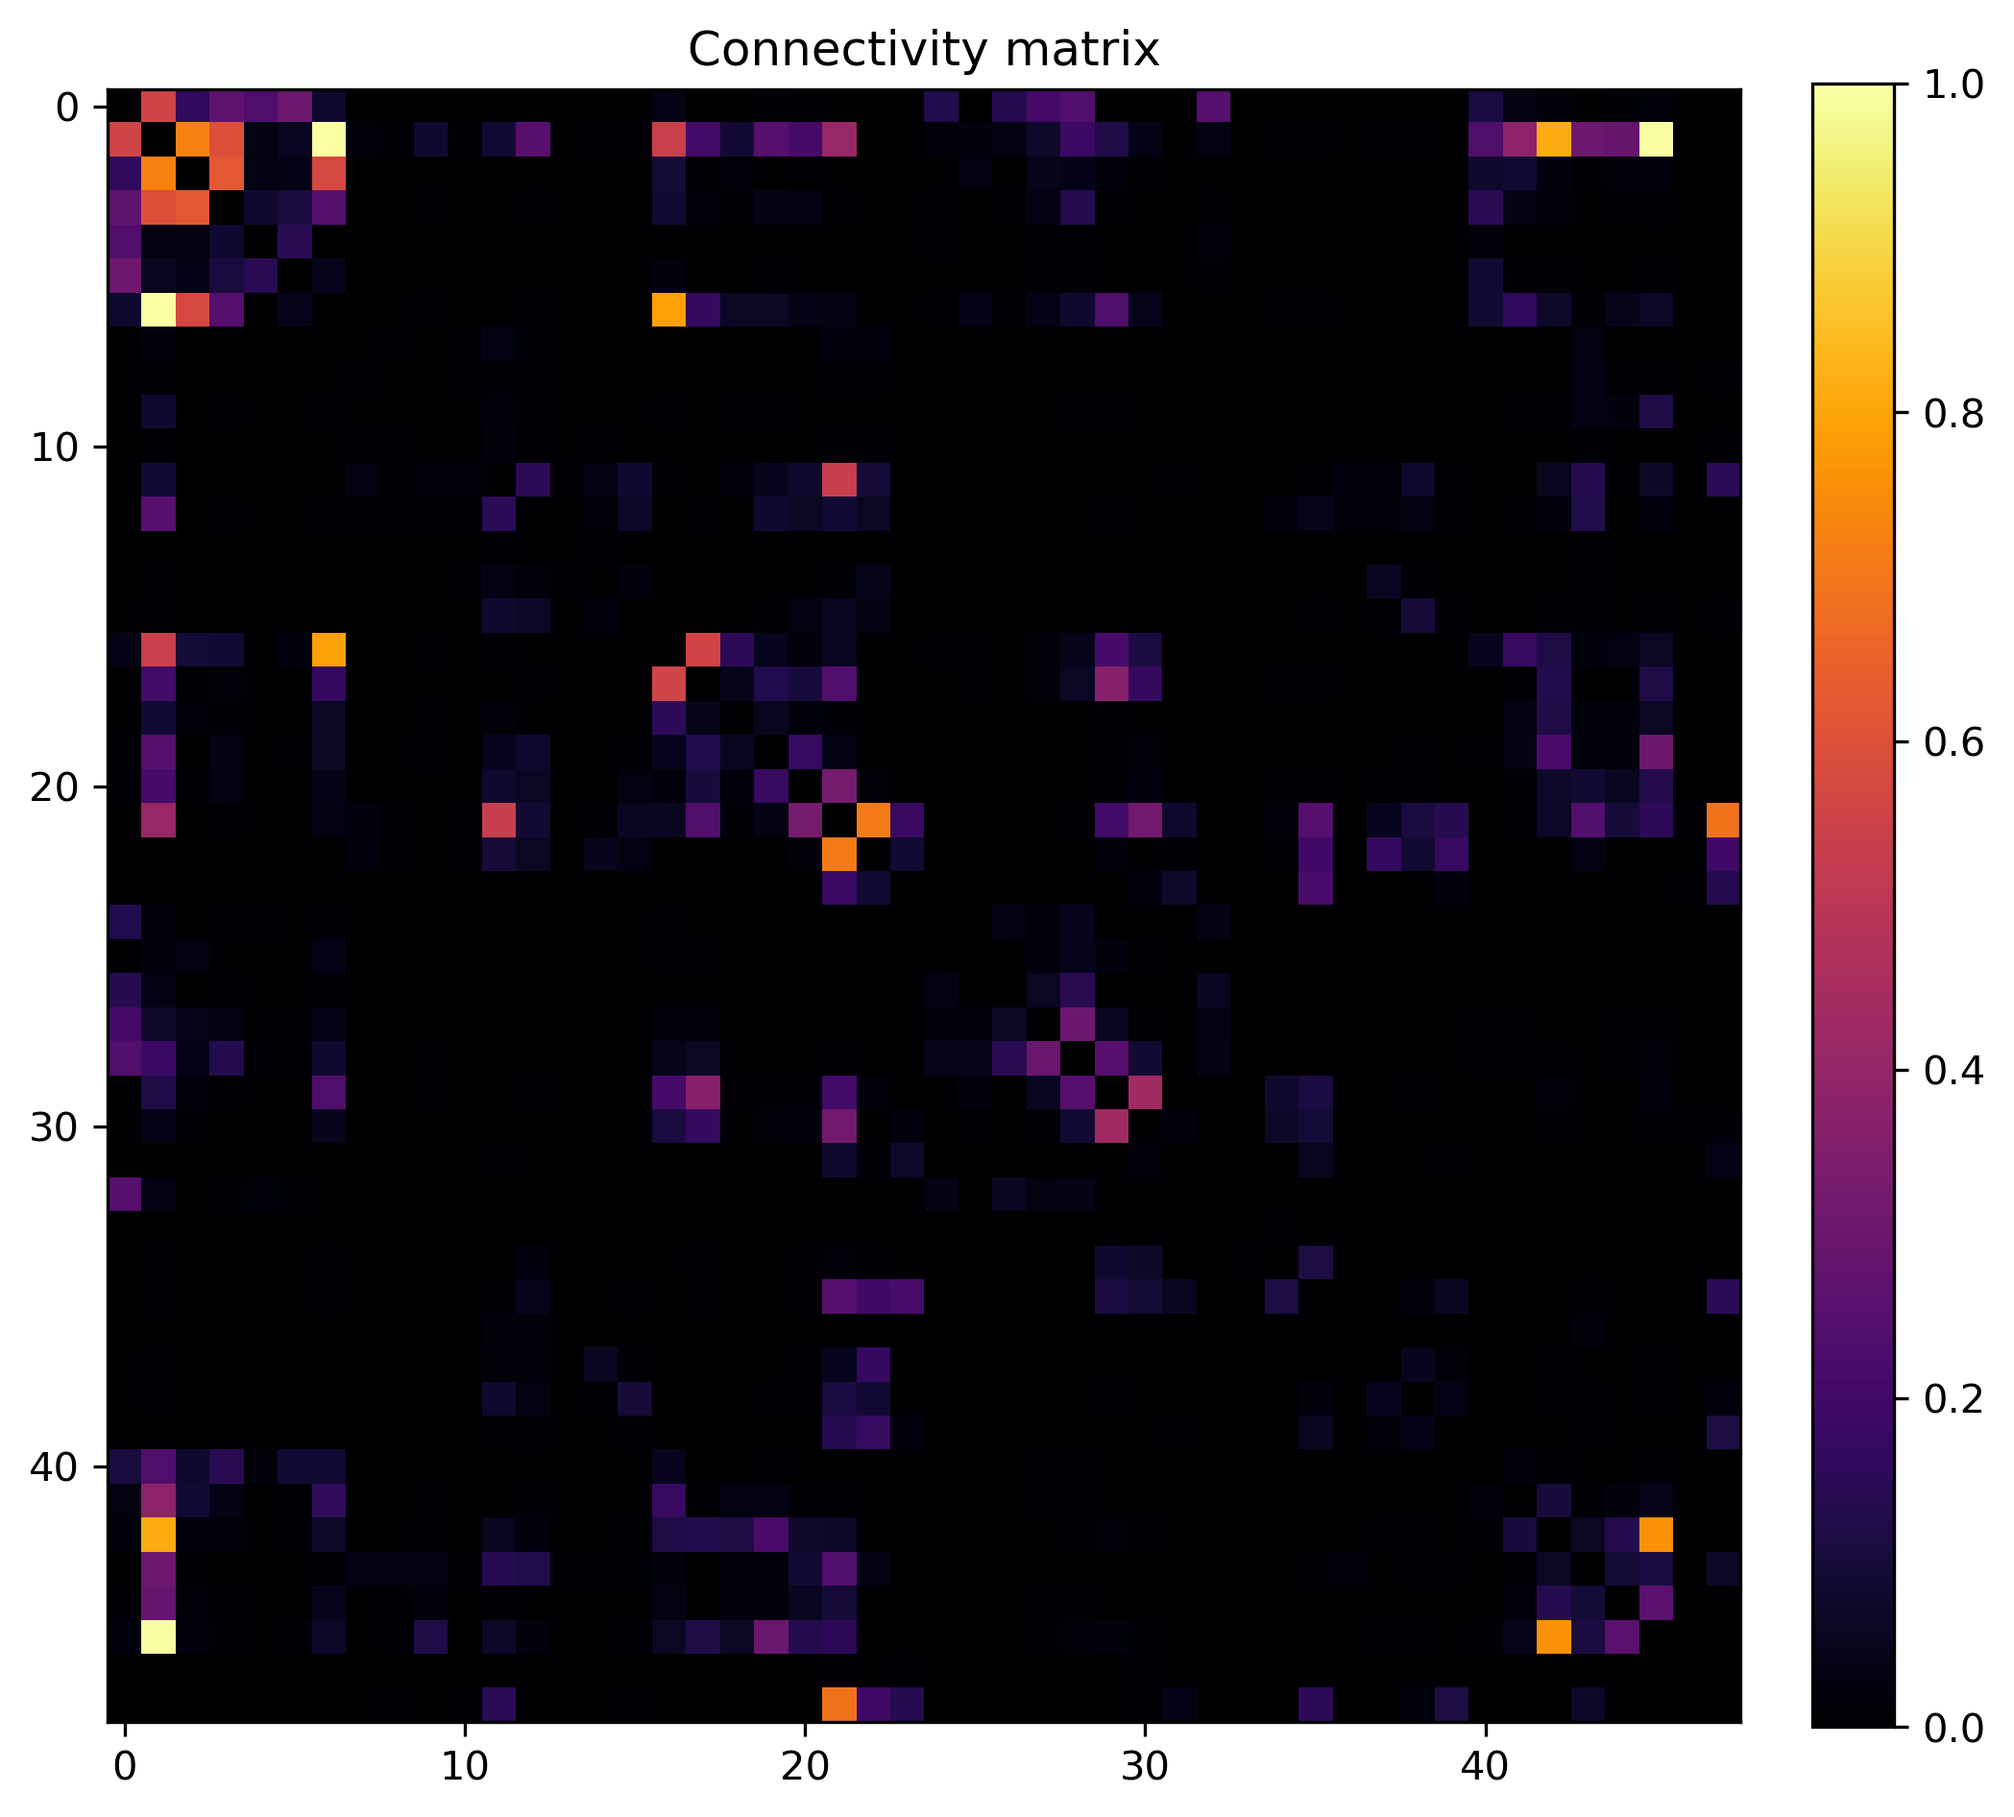
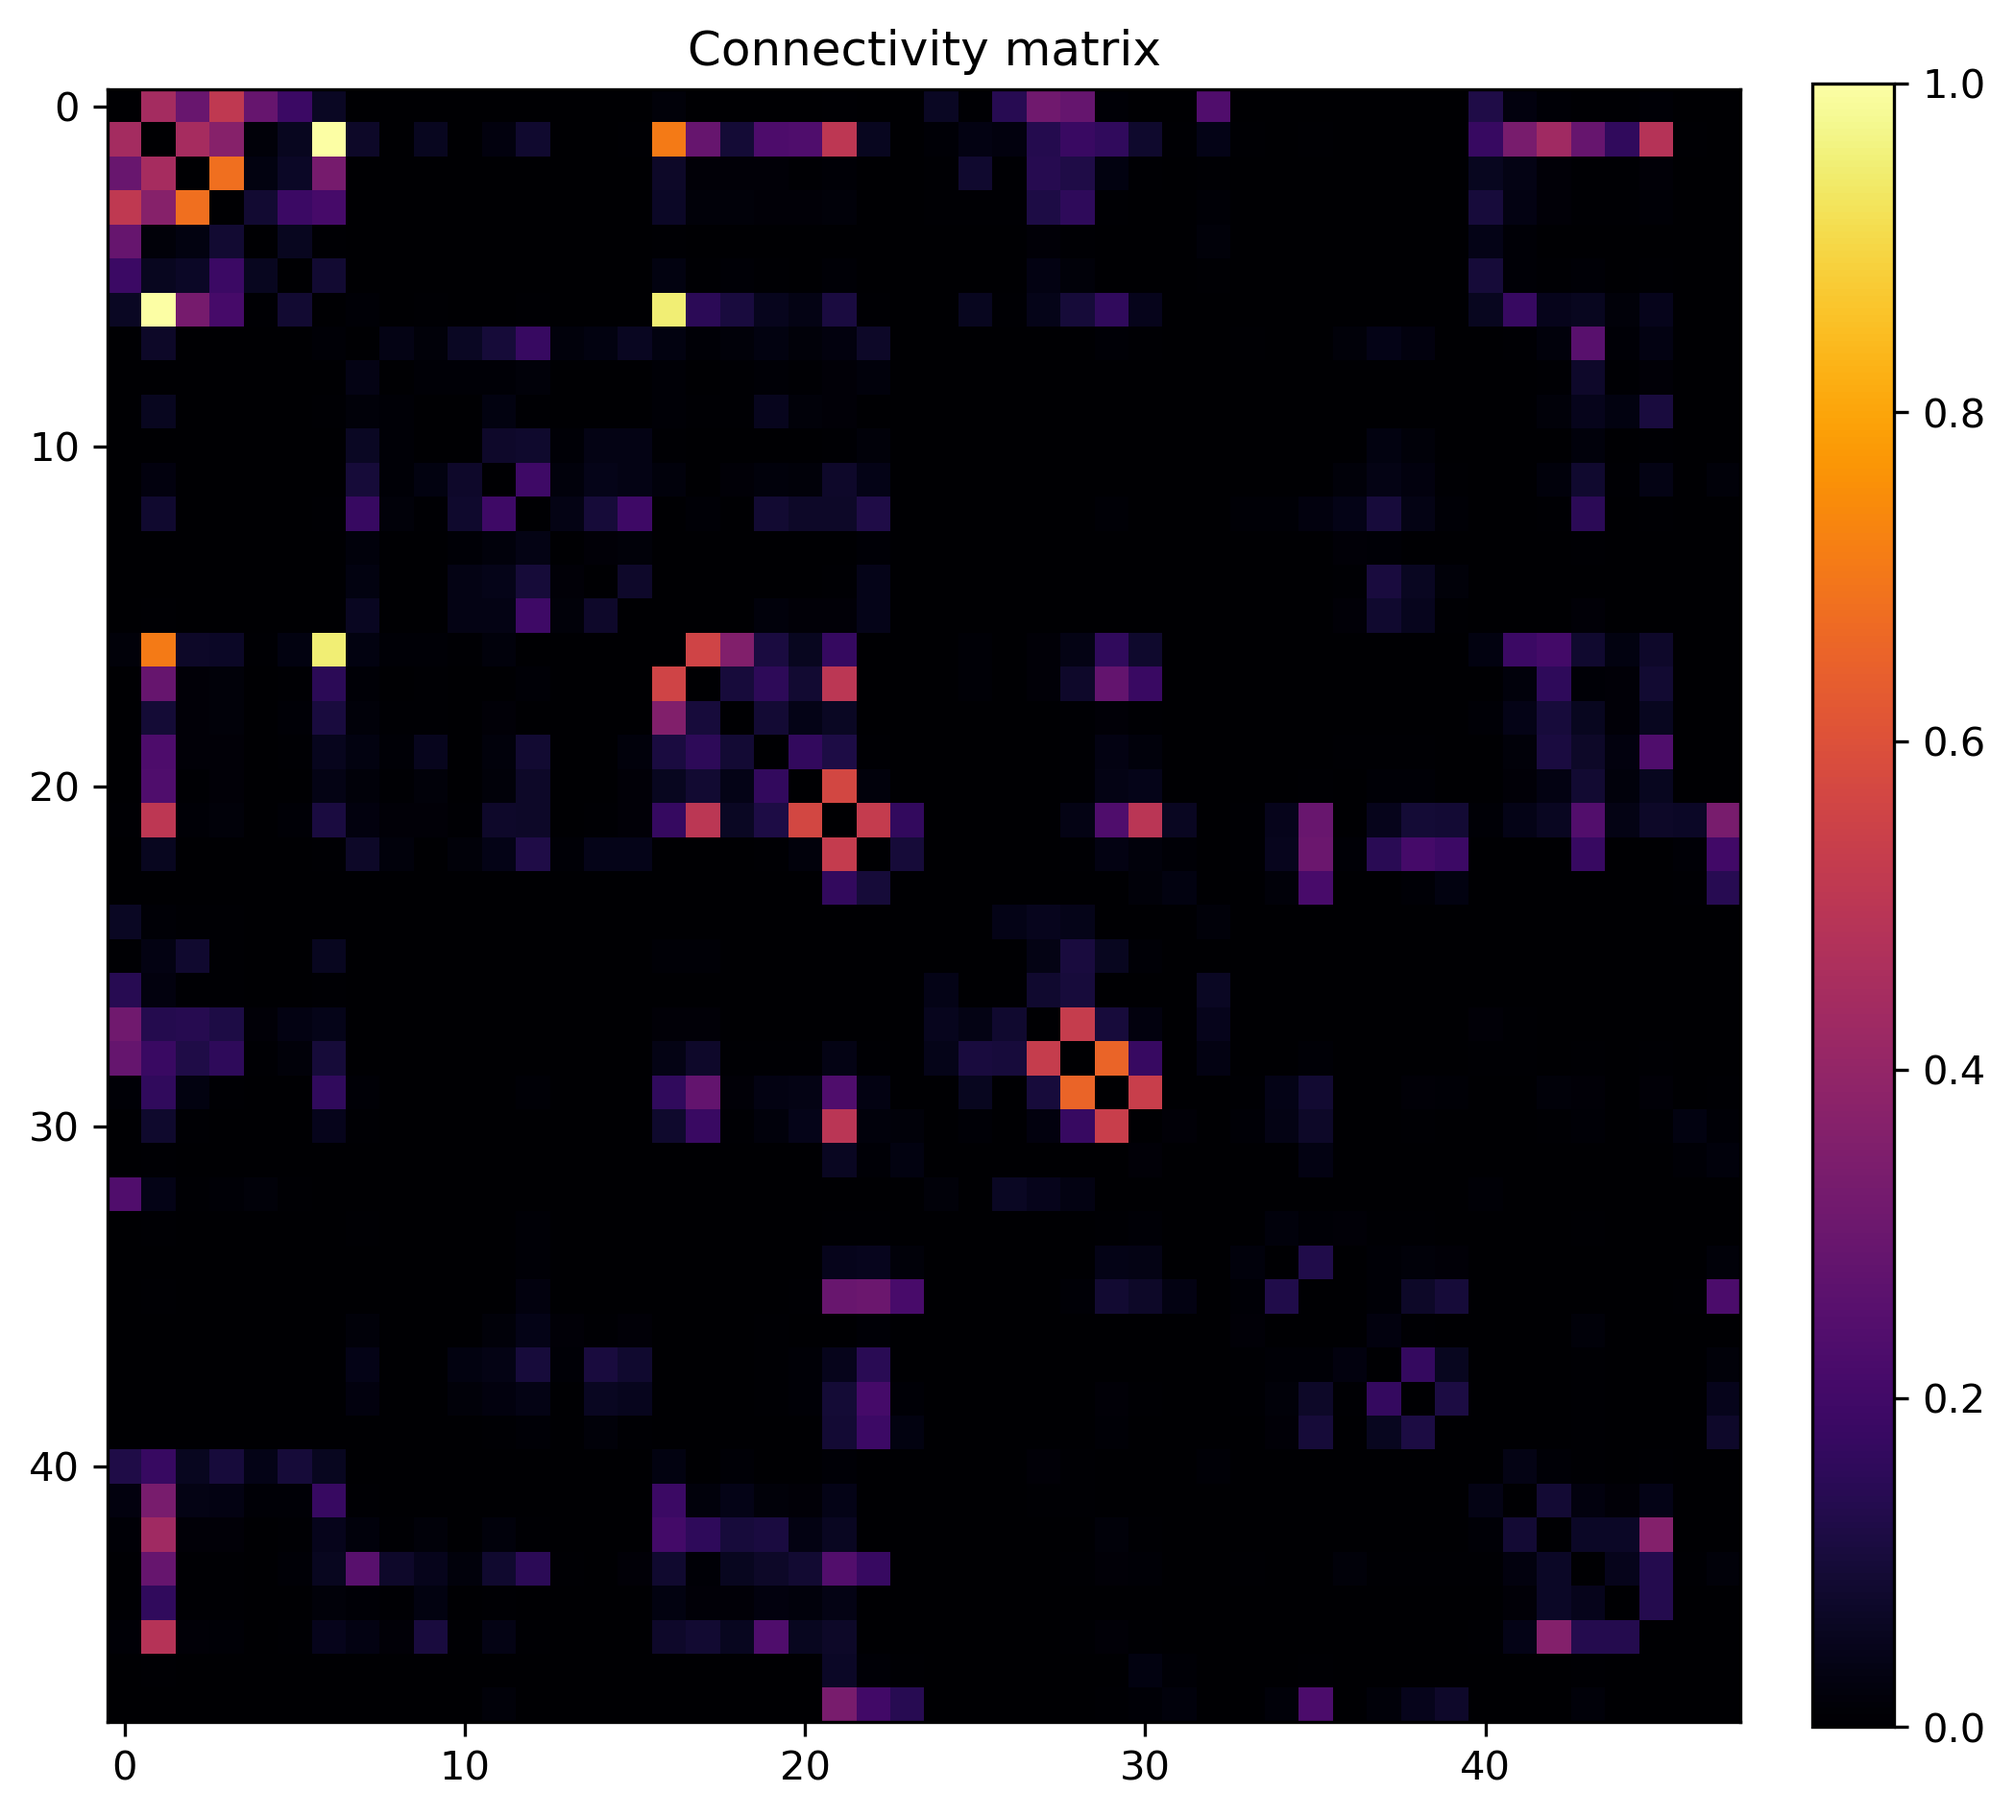
feat: structural analysis

diff --git a/scripts/analyzer.py b/scripts/analyzer.py
@@ -5,77 +5,70 @@ import matplotlib.pyplot as plt
 
 class Analyzer:
     @staticmethod
-    def functional_partitionate(subject, session):
-        session_idx = session - 1
-        mat = subject.structurals[:, :, session_idx]
+    def structuralAnalysis(subject, folder):
+        """
+        Performs structural connectivity analysis and visualization on the subject's data.
 
-        # Normalize matrix to [0,1]
-        norm_mat = mat.copy()
-        norm_mat = norm_mat / norm_mat.max() if norm_mat.max() != 0 else norm_mat
+        Steps:
+        1. Compute the mean structural connectivity matrix across the third dimension.
+        2. Normalize the matrix by its maximum value.
+        3. Plot and save the connectivity matrix heatmap.
+        4. Threshold the matrix to retain only the top 30% strongest connections.
+        5. Convert the thresholded matrix into a sparse graph-tool graph.
+        6. Assign region labels (hoa_labels) to vertices.
+        7. Arrange vertices on a circle for visualization.
+        8. Color edges based on weight percentiles (low=yellow, medium=orange, high=red).
+        9. Draw and save the connectogram graph.
 
-        # Plot full normalized connectivity matrix
+        Parameters:
+        - subject: Object containing structural connectivity data in subject.structurals
+        - folder: Output folder path for saving plots
+        """
+        mat = subject.structurals[:, :, :].mean(axis=2)
+        mat = mat / mat.max() if mat.max() != 0 else mat
+
+        ## connectivity matrix
         fig, ax = plt.subplots(figsize=(8,8))
-        cax = ax.imshow(norm_mat, cmap='inferno', interpolation='nearest')
+        cax = ax.imshow(mat, cmap='inferno', interpolation='nearest')
         ax.set_title("Connectivity matrix")
         plt.colorbar(cax, ax=ax, fraction=0.046, pad=0.04)
-        plt.savefig("./results/connectivity_matrix.png", dpi=300, bbox_inches='tight')
+        plt.savefig(f"{folder}/connectivity_matrix.png", dpi=300, bbox_inches='tight')
         plt.close(fig)
 
-
-        weights = mat[np.triu_indices_from(mat, k=1)]
-        threshold = np.percentile(weights[weights > 0], 70)
-
-        # Filtro: mantieni solo pesi >= soglia
-        mat = np.where(mat >= threshold, mat, 0)
+        ## connectogram
+        weights = mat.flatten()
+        mat = np.where(mat >= np.percentile(weights[weights > 0], 70), mat, 0) # plot only the 30% more significative
 
         sparse_mat = lil_matrix(mat)
         g = gt.Graph(sparse_mat, directed=False)
         ew = g.ep["weight"]
 
-        hoa_labels = [
-            "FP","IC","SFG","MFG","IFGpt","IFGpo","PrG","TP",
-            "STGad","STGpd","MTGad","MTGpd","MTGtp","ITGad","ITGpd","ITGtp",
-            "PostG","SPL","SGad","SGpd","AG","LOCsd","LOCid","IcC",
-            "FMC","JLC","SC","PcG","CGad","CGpd","PC","CC",
-            "FOrC","PGad","PGpd","LG","TFCad","TFCpd","TOFC","OFG",
-            "FOpC","COC","POC","PP","HG","PT","ScC","OP"
-        ]
-
+        # vertex names
+        hoa_labels = ["FP","IC","SFG","MFG","IFGpt","IFGpo","PrG","TP","STGad","STGpd","MTGad","MTGpd","MTGtp","ITGad","ITGpd","ITGtp","PostG","SPL","SGad","SGpd","AG","LOCsd","LOCid","IcC","FMC","JLC","SC","PcG","CGad","CGpd","PC","CC","FOrC","PGad","PGpd","LG","TFCad","TFCpd","TOFC","OFG","FOpC","COC","POC","PP","HG","PT","ScC","OP"]
         v_label = g.new_vertex_property("string")
         for v in g.vertices():
             v_label[v] = hoa_labels[int(v)]
         g.vp["label"] = v_label
 
+        # vertex positions
         n = g.num_vertices()
         pos = g.new_vertex_property("vector<double>")
         for i, v in enumerate(g.vertices()):
             angle = 2 * np.pi * i / n
             pos[v] = (np.cos(angle), np.sin(angle))
 
-        weights_nonzero = np.array([ew[e] for e in g.edges()])
-        p33 = np.percentile(weights_nonzero, 33)
-        p66 = np.percentile(weights_nonzero, 66)
-
-        e_color = g.new_edge_property("vector<float>")  # RGB color
-
+        # edges color
+        weights_nonzero = np.array([ew[e] for e in g.edges() if ew[e] > 0])
+        e_color = g.new_edge_property("vector<float>")
         for e in g.edges():
             w = ew[e]
-            if w <= p33:
-                e_color[e] = (1, 1, 0, 1)      # giallo (RGBA)
-            elif w <= p66:
-                e_color[e] = (1, 0.5, 0, 1)    # arancione
-            else:
-                e_color[e] = (1, 0, 0, 1)      # rosso
+            e_color[e] = (1, 1, 0, 1) if w <= np.percentile(weights_nonzero, 33) else (1, 0.5, 0, 1) if w <= np.percentile(weights_nonzero, 66) else (1, 0, 0, 1)
+   
+        gt.graph_draw(g, pos=pos, vertex_text=g.vp.label, edge_color=e_color, vertex_fill_color="white", vertex_font_size=10, edge_pen_width=gt.prop_to_size(ew, mi=1, ma=4, power=1, log=True), output=f"{folder}/graph.png")
 
-        gt.graph_draw(
-            g,
-            pos=pos,
-            vertex_text=g.vp.label,
-            edge_color=e_color,
-            vertex_fill_color="white",
-            vertex_font_size=10,
-            edge_pen_width=gt.prop_to_size(ew, mi=1, ma=4, power=1, log=True),
-            output="./results/graph.png"
-        )
+
+    @staticmethod
+    def functional_partitionate(subject, session):
+        pass
 
 

diff --git a/main.py b/main.py
@@ -7,7 +7,7 @@ def main():
 
     s = Subject(f"./data/subject-{SUBJECT_ID}", SUBJECT_ID)
 
-    Analyzer.functional_partitionate(s, session=1)
+    Analyzer.structuralAnalysis(s, folder="./results")
 
     pass
 
